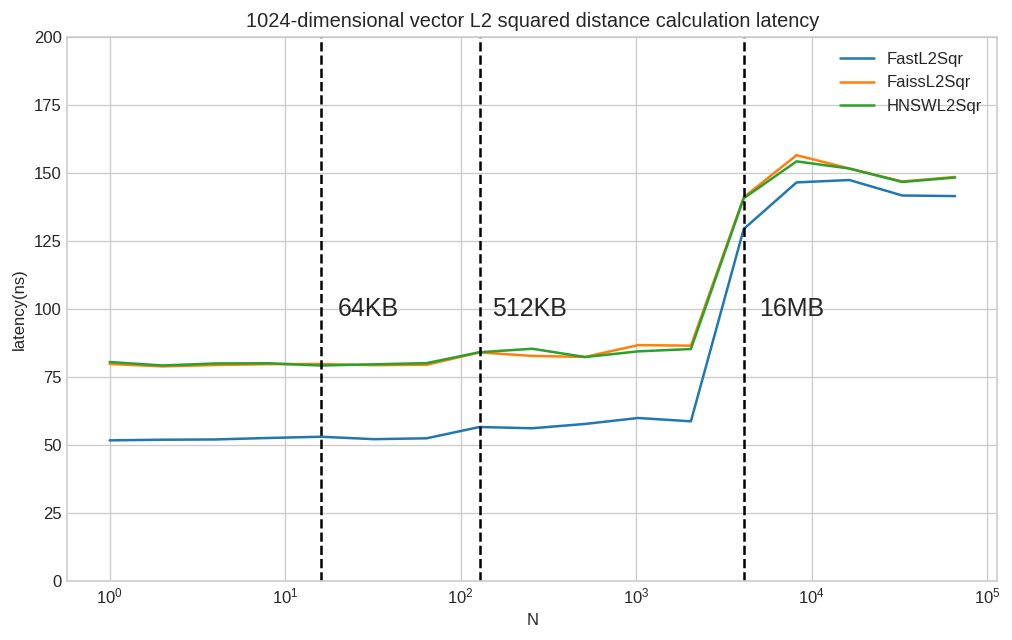
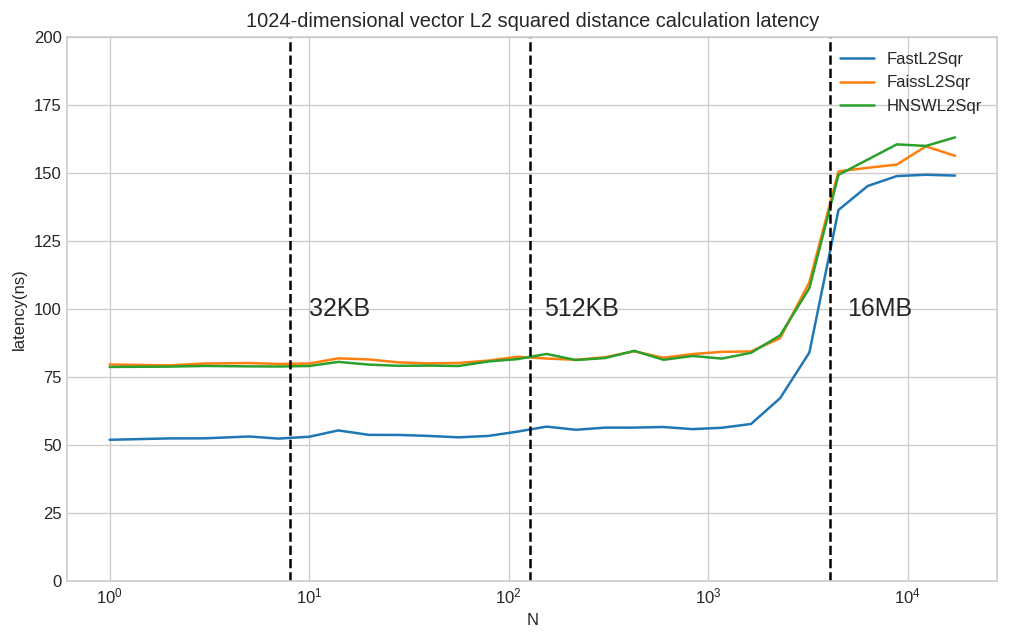
Update simd.cc

diff --git a/simd.cc b/simd.cc
@@ -5,12 +5,13 @@
 #include <memory>
 #include <string>
 
+namespace {
+
 constexpr size_t align_size = 16;
 const size_t dim = 1024;
 int N;
 
 float *query, *data;
-static int init = [] { return 114515; }();
 
 float L2Sqr(const float* x, const float* y, const size_t d) {
   float result = 0.0;
@@ -19,6 +20,10 @@ float L2Sqr(const float* x, const float* y, const size_t d) {
   }
   return result;
 }
+
+}  // namespace
+
+namespace fast {
 
 float L2SqrAVX(const float* x, const float* y, const size_t d) {
   __m256 sum1 = _mm256_setzero_ps(), sum2 = _mm256_setzero_ps(), xx1, yy1, xx2,
@@ -45,6 +50,10 @@ float L2SqrAVX(const float* x, const float* y, const size_t d) {
   sumh = _mm_hadd_ps(sumh, sumh);
   return _mm_cvtss_f32(sumh);
 }
+
+}  // namespace fast
+
+namespace faiss {
 
 // reads 0 <= d < 4 floats as __m128
 static inline __m128 masked_read(int d, const float* x) {
@@ -115,6 +124,10 @@ float fvec_L2sqr_avx(const float* x, const float* y, size_t d) {
   return _mm_cvtss_f32(msum2);
 }
 
+}  // namespace faiss
+
+namespace hnswlib {
+
 float L2SqrSIMD16ExtAVX(const void* pVect1v, const void* pVect2v,
                         const void* qty_ptr) {
   float* pVect1 = (float*)pVect1v;
@@ -149,6 +162,8 @@ float L2SqrSIMD16ExtAVX(const void* pVect1v, const void* pVect2v,
          TmpRes[6] + TmpRes[7];
 }
 
+}  // namespace hnswlib
+
 static void Naive(benchmark::State& state) {
   // Code inside this loop is measured repeatedly
   for (int i = 0; auto _ : state) {
@@ -162,7 +177,7 @@ static void FastL2Sqr(benchmark::State& state) {
   // Code inside this loop is measured repeatedly
   for (int i = 0; auto _ : state) {
     ++i %= N;
-    float dist = L2SqrAVX(query, data + i * dim, dim);
+    float dist = fast::L2SqrAVX(query, data + i * dim, dim);
     benchmark::DoNotOptimize(dist);
   }
 }
@@ -171,7 +186,7 @@ static void FaissL2Sqr(benchmark::State& state) {
   // Code inside this loop is measured repeatedly
   for (int i = 0; auto _ : state) {
     ++i %= N;
-    float dist = fvec_L2sqr_avx(query, data + i * dim, dim);
+    float dist = faiss::fvec_L2sqr_avx(query, data + i * dim, dim);
     benchmark::DoNotOptimize(dist);
   }
 }
@@ -180,7 +195,7 @@ static void HNSWL2Sqr(benchmark::State& state) {
   // Code inside this loop is measured repeatedly
   for (int i = 0; auto _ : state) {
     ++i %= N;
-    float dist = fvec_L2sqr_avx(query, data + i * dim, dim);
+    float dist = hnswlib::L2SqrSIMD16ExtAVX(query, data + i * dim, &dim);
     benchmark::DoNotOptimize(dist);
   }
 }
@@ -197,4 +212,6 @@ int main(int argc, char** argv) {
   BENCHMARK(HNSWL2Sqr);
   ::benchmark::Initialize(&argc, argv);
   ::benchmark::RunSpecifiedBenchmarks();
+  free(query);
+  free(data);
 }
